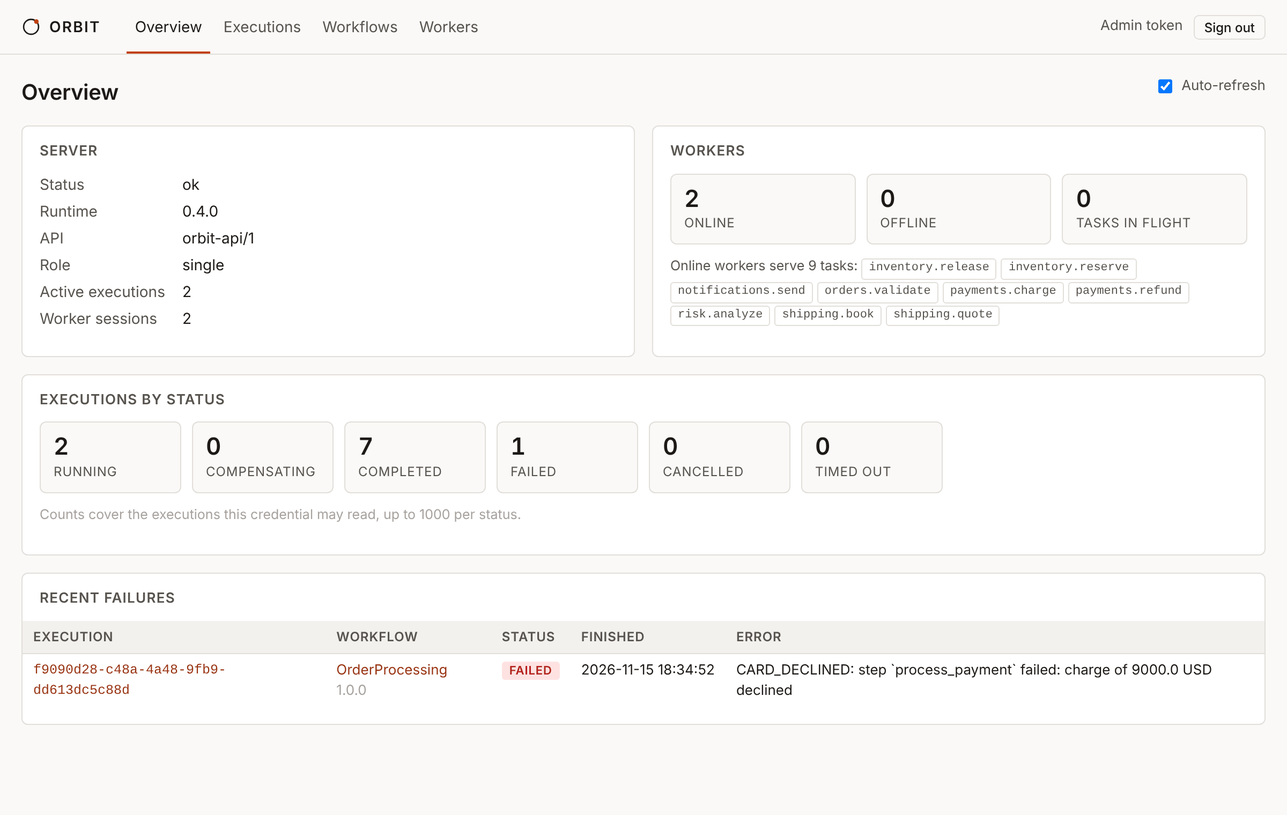
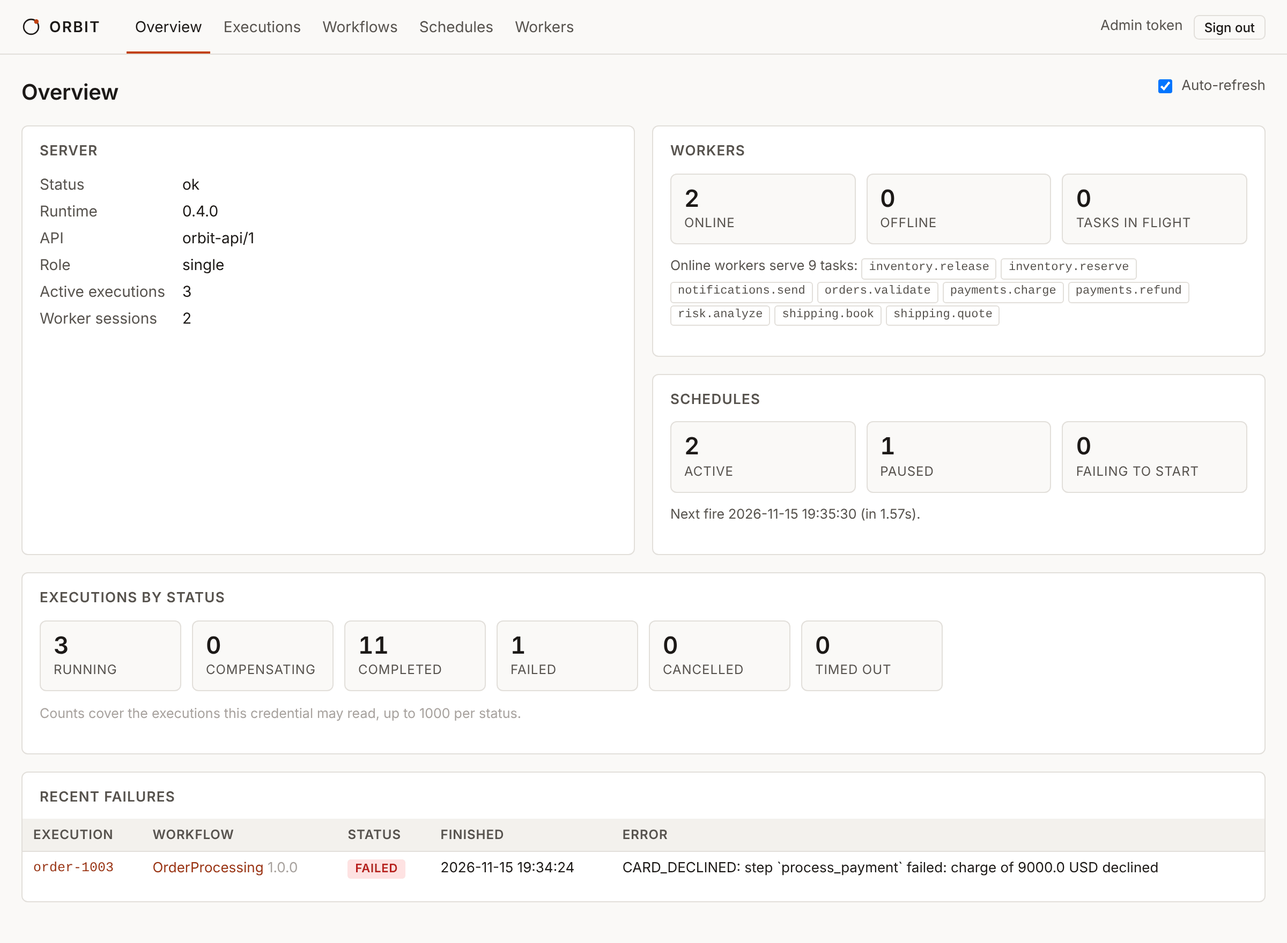
Docs: web UI runs and schedules, continue-as-new in graphs, docs and diffs
web-ui.md describes the run selector and earlier runs, the continue_as_new
node in the graph, the Continue-as-new panel of a workflow page, and the
Schedules view (list, page, actions, form) with what client identities see;
screenshots refreshed against a real server (overview, executions,
execution, workflow graph) and new ones for an earlier run, the schedule
list and a schedule page. The graph, documentation generation and diff
pages show real output for examples/subscription.orbit (Mermaid, DOT, SVG,
sequence, the generated Continue-as-new section and a continue_as_new
diff); checkout-graph.svg is regenerated for the new SVG stylesheet.
Schedules and Continue-as-new link to the UI and tooling pages.

diff --git a/docs/src/runtime/web-ui.md b/docs/src/runtime/web-ui.md
@@ -1,6 +1,6 @@
 # Web UI
 
-`orbit server` serves an operations UI at `/ui/` on the same address as the HTTP API. It shows the server's health, executions, their steps, history and graph, registered workflow definitions and connected workers, and it can run queries, send signals and cancel executions. This page describes each view, how sign-in and permissions work, the security headers, behaviour in a cluster, and the limitations.
+`orbit server` serves an operations UI at `/ui/` on the same address as the HTTP API. It shows the server's health, executions (including the earlier runs of executions that [continued as new](../language/continue-as-new.md)), their steps, history and graph, registered workflow definitions, [schedules](schedules.md) and connected workers. It can run queries, send signals, cancel executions, and create, pause, resume, trigger and delete schedules. This page describes each view, how sign-in and permissions work, the security headers, behaviour in a cluster, and the limitations.
 
 The UI is three static files (HTML, CSS, JavaScript) compiled into the `orbit` binary. It loads nothing from the network other than the server it came from, needs no build step, and works offline. Every value it shows comes from the [HTTP API](../reference/http-api.md), called with the token you sign in with, so it can see and do exactly what that token can through the API.
 
@@ -52,6 +52,7 @@ A client identity sees the same data the API gives it:
 | Executions | Only executions of workflows it may read (`read` action). Opening another execution shows `Not permitted`. |
 | Execution detail | Queries, signals and cancel each work only if the action is granted. A refused action shows `Not permitted` with the API's message, for example ``client `billing` may not cancel executions of `OrderApproval` ``. |
 | Workflows | Only definitions of workflows it may read. |
+| Schedules | Only schedules of workflows it may `schedule` (the `schedule` action); without that action the list is empty, and opening a schedule shows `Not permitted`, for example ``client `billing` may not manage schedules of `OrderProcessing` ``. The executions a schedule started are listed only if it may also `read` them. |
 | Workers | `Not permitted` (`GET /v1/workers` is an administrative endpoint). |
 
 The top bar shows which kind of credential is signed in, for example `Admin token` or `Client billing (restricted)`.
@@ -64,6 +65,7 @@ The top bar shows which kind of credential is signed in, for example `Admin toke
 |---|---|---|
 | Server | Status, runtime and API versions, role (`single`, `leader`, `standby` or `shared`), node id, term and leader in standby mode, active executions, worker sessions. In shared mode, also the executions owned and tasks claimed by this node, and a table of every node with its address, liveness and last heartbeat. | `GET /v1/health` |
 | Workers | Online and offline workers, tasks in flight, and the tasks the online workers serve. | `GET /v1/workers` |
+| Schedules | Active and paused schedules, schedules whose latest start failed (`last_error`), and the next fire time. Each count links to the Schedules view. | `GET /v1/schedules` |
 | Executions by status | One count per status, each linking to the filtered execution list. Counts are capped at 1000 per status (shown as `1000+`). | `GET /v1/executions?status=...&limit=1000` |
 | Recent failures | The eight most recently updated `FAILED` or `TIMED_OUT` executions, with their error code and message. | the same lists, then `GET /v1/executions/{id}` |
 
@@ -77,6 +79,8 @@ The list shows the execution id, workflow and version, status, start time, last 
 - **Search** matches any part of an execution id among the newest 1000 executions that pass the filters. If nothing matches, the text is looked up as a complete id with `GET /v1/executions/{id}`, so an older execution can still be found by its full id.
 - **Previous** and **Next** page through the list.
 
+An execution that continued as new is listed once, with the status of its current run. `CONTINUED_AS_NEW` is never the status of a listed execution (the API reports the current run), so it is not offered as a filter or counted on the overview; it appears on the earlier runs of an execution, below.
+
 The filters and page are kept in the URL (for example `#/executions?status=FAILED&workflow=OrderProcessing`), so a filtered list can be bookmarked or shared.
 
 ## Execution detail
@@ -87,16 +91,33 @@ The detail page of one execution has these sections:
 
 | Section | Contents |
 |---|---|
-| Execution | Status, workflow and version, definition hash, start and finish times, duration, time since the last update, number of history events. For a child execution, a link to its parent and the parent's step. While the execution winds down: the abort reason, compensation outcome and running `on` handler block. |
+| Execution | Status, run number (from run 2 on, with a link to the previous run), workflow and version, definition hash, start and finish times of the current run, duration, time since the last update, number of history events. For an execution started by a schedule, a link to the schedule. For a child execution, a link to its parent and the parent's step. While the execution winds down: the abort reason, compensation outcome and running `on` handler block. |
 | Actions | One **Run** button per declared query, one form per declared signal, and **Cancel execution**. See below. |
 | Input and result | The input, the output once completed, and the error if it failed, as JSON. |
 | Graph | The workflow's steps drawn from the definition, coloured by the status of each step in this execution. See [Graph](#graph). |
 | Steps | One row per unit: every step, every element of a `for` step (`reserve[0]`), every compensation (`compensate:charge`), every outcome handler step (`on_failure:tell_customer`), and every event handler instance and its steps (`on_event:location@4`, `on_event:location@4:tell`). Steps that have not started yet are listed as `not started`. Columns: action (task name, `compute`, `await <signal>`, `sleep`, `workflow <name>`), status, attempt (and the number of deliveries when an attempt was redelivered), the worker that ran it, start and finish times, time taken, and details: the last error, when a sleep or an `await` times out, when a retry is due, and the unit's input, output and idempotency key (expandable). |
 | Child executions | For `workflow` steps that started, the child execution id (`<parent id>.<step>`, or `<parent id>.<step>.<index>` for `for` elements) with a link, its workflow and status. |
 | Signals received | Every signal in arrival order: history sequence number, name, time received, the unit it was delivered to, and its payload. |
-| History | Every history event: sequence number, time since the first event, event type, the unit or signal it concerns, and the absolute time. Click an event to see its full JSON. |
+| History | Every history event of the current run: sequence number, time since the first event, event type, the unit or signal it concerns, and the absolute time. Click an event to see its full JSON. |
 
 While the execution is running, the page reloads it and its history every 2 seconds (untick **Auto-refresh** to stop). Sections are redrawn only when a new event was recorded; the signal forms keep what you typed, and opened history events stay open.
+
+### Runs
+
+An execution that [continued as new](../language/continue-as-new.md) shows its current run number next to its status (`run 4`), and a **Run** selector in the top right lists every run. The page itself always shows the current run, from `GET /v1/executions/{id}`; when the execution moves on to its next run while the page is open, the page switches to it.
+
+Choosing an earlier run opens it at `#/executions/<id>?run=<N>`, so it can be bookmarked. An earlier run is read from its archived history, `GET /v1/executions/{id}/history?run=N`, and shown read-only:
+
+![Run 1 of an Inbox execution: it took one signal, carried two to run 2, and continued as new](../images/web-ui-run.png)
+
+| Section | Contents |
+|---|---|
+| Run | Run `N of M`, the status (`CONTINUED_AS_NEW` for every run but the last), workflow, definition hash, start and end times, duration, number of events, and a link to the run it continued as. |
+| Input and next input | The run's input (from `WorkflowCreated`) and the input of the next run (from `WorkflowContinuedAsNew`). |
+| Graph, Steps | The graph and step table, with step states rebuilt from the run's history. |
+| Signals received, History | The signals the run received (signals no step took were carried into the next run) and its full history. |
+
+There are no actions on an earlier run: queries, signals and cancellation go to the current run.
 
 ### Queries
 
@@ -129,6 +150,7 @@ The graph is drawn from the workflow definition (`GET /v1/workflows/{name}/{vers
 - A step with a `compensate` block has a dashed node under it, connected by a dashed line.
 - Outcome handlers (`on failure`, `on cancel`, `on timeout`) and event handlers (`on event <signal>`) are drawn as separate labelled lanes below the main steps, each with its own dependencies.
 - The second line of each node is the action: task name, `compute`, `await <signal>`, `sleep <duration>`, `workflow <name>`, prefixed with `for <variable>:` for fan-out steps.
+- A workflow with `continue_as_new` has a node with a double border after its final steps (the steps nothing depends on), showing `continue as new` and its condition (`when ...`, or `always`); hovering shows the next run's input. A dashed edge goes from it back to the first steps. On an earlier run the node is coloured `continued as new` (violet); on a current run that completed, it is grey (not taken).
 - On an execution page, nodes are coloured by status: green succeeded, blue running, dispatched or waiting, amber retrying or uncertain, red failed, grey skipped or cancelled, unfilled not started. A `for` step takes the status of its own unit, or else of its elements. An event handler step takes the status of its latest instance, and its name is followed by the number of instances (`tell ×2`). Hovering over a node shows its status and attempt.
 
 Wide graphs scroll horizontally inside their panel.
@@ -137,7 +159,27 @@ Wide graphs scroll horizontally inside their panel.
 
 The list shows every registered definition: name, version, description, number of steps, the tasks it uses (including child workflows as `workflow:<name>`), the start of the definition hash, and a link to its executions.
 
-A definition's page shows its version, description, definition hash, IR version, workflow timeout and limits, links to its other registered versions, the input and output fields (type, default, or `required`), signals with their payload types, queries with their result types, the graph, a table of all steps (block, action, dependencies, whether it has a `when` condition, retry policy, timeout, compensation task), and the task contracts it was compiled against (name, version, input and output types, compensation, built-in or child workflow).
+A definition's page shows its version, description, definition hash, IR version, workflow timeout and limits, links to its other registered versions, the input and output fields (type, default, or `required`), signals with their payload types, queries with their result types, the graph, a table of all steps (block, action, dependencies, whether it has a `when` condition, retry policy, timeout, compensation task), and the task contracts it was compiled against (name, version, input and output types, compensation, built-in or child workflow). For a workflow with `continue_as_new`, a **Continue-as-new** panel shows the condition and, field by field, the next run's input (fields left out take their defaults).
+
+## Schedules
+
+![Three schedules: a cron schedule in Europe/Berlin that was triggered once, an interval schedule, and a paused one](../images/web-ui-schedules.png)
+
+The list shows every [schedule](schedules.md) the credential may manage (`GET /v1/schedules`): its id, workflow and version (`latest` when the version is not pinned), timing (`cron "<expression>" <time zone>` or `every <interval>`), state, the next fire time (including jitter), the latest occurrence handled, the latest execution it started (with a link), how many executions it started and how many occurrences it skipped, and the error of the latest failed start. The state is `active`, `paused`, or `ended` (past `end_at`, no next occurrence). The list refreshes every 5 seconds.
+
+A schedule's page has its settings (workflow, timing, overlap and catch-up policies, start and end, jitter, description), its state (next fire time and the next five occurrences, last fire, last execution, counts, last error), its input, and the executions it started: the executions of its workflow whose id starts with `<schedule id>:`, newest first. The page refreshes every 3 seconds.
+
+![A 15-second interval schedule with the executions it started](../images/web-ui-schedule.png)
+
+| Action | API call |
+|---|---|
+| **Pause**, **Resume** | `POST /v1/schedules/{id}/pause` and `/resume` |
+| **Trigger now** | `POST /v1/schedules/{id}/trigger`. The new execution's id is shown with a link. When the overlap policy skips the start, the page says so. |
+| **Delete schedule…** | Opens a confirmation; **Confirm delete** calls `DELETE /v1/schedules/{id}`. Executions the schedule started are not affected. |
+
+**New schedule** on the list opens a form with the fields of `POST /v1/schedules`: id, workflow, version, cron expression or interval, time zone, overlap and catch-up policies, input (JSON), description, and whether to create it paused. The form checks only that the input is JSON; everything else is validated by the server, and its error is shown under the form, for example ``INVALID_SCHEDULE (400). cron `0 25 * * *`: `25` is out of range for the hour field (0-23)``. Changing an existing schedule is not possible in the UI; use `orbit schedule update` or `PATCH /v1/schedules/{id}`.
+
+An execution started by a schedule links back to it from its header and its Execution panel.
 
 ## Workers
 
@@ -174,16 +216,17 @@ date: Sun, 15 Nov 2026 18:35:41 GMT
 
 The UI is served by every server, whatever its role, because it is answered before the cluster logic.
 
-**Standby mode** ([Running several servers](cluster.md)): on the leader, everything works. On a standby, the read views work, because a standby answers `GET` requests from the database; the Server panel shows `standby`, its term and the current leader. Running a query also works. Sending a signal or cancelling from a standby is refused with `503 NOT_LEADER`, and the UI shows the server's message, which names the leader and its address; open the leader's UI to act, or reach the UI through a load balancer that sends traffic to the ready server (`/v1/ready`), as for the API. Worker sessions are held by the leader, so on a standby the Workers view lists the registered workers as offline, and the active execution and worker session counts in the Server panel are 0; check those on the leader.
+**Standby mode** ([Running several servers](cluster.md)): on the leader, everything works. On a standby, the read views work, because a standby answers `GET` requests from the database; the Server panel shows `standby`, its term and the current leader. Running a query also works. Sending a signal, cancelling, or creating, pausing, resuming, triggering or deleting a schedule from a standby is refused with `503 NOT_LEADER`, and the UI shows the server's message, which names the leader and its address; open the leader's UI to act, or reach the UI through a load balancer that sends traffic to the ready server (`/v1/ready`), as for the API. Worker sessions are held by the leader, so on a standby the Workers view lists the registered workers as offline, and the active execution and worker session counts in the Server panel are 0; check those on the leader.
 
 **Shared mode**: every server is active. Signals and cancellations sent from any node are forwarded to the node that owns the execution. The Server panel shows `shared`, the node's own executions and claimed tasks, and every node of the cluster with its liveness.
 
 ## Limitations
 
 - The API returns at most 1000 executions per request and has no offset parameter. The list therefore pages through the newest 1000 executions that match the filters, the status counts stop at 1000, and the id search covers the newest 1000 (an older execution can be opened by its complete id).
-- The UI polls; it does not receive pushed updates. Intervals: overview 5 s, execution list 3 s, execution detail 2 s while running, workers 5 s.
+- The UI polls; it does not receive pushed updates. Intervals: overview 5 s, execution list 3 s, execution detail 2 s while running, schedule list 5 s, schedule page 3 s, workers 5 s.
 - The history is shown in full; executions with very many events make the detail page slower.
-- The UI cannot start executions, register workflows or change server settings. Use the [CLI](../reference/cli.md) or the API.
+- The step states of an earlier run are rebuilt in the browser from its history; the API has no state endpoint for earlier runs.
+- The UI cannot start executions, change a schedule, register workflows or change server settings. Use the [CLI](../reference/cli.md) or the API.
 - Times are shown in the browser's time zone.
 - The UI is served at `/ui/` of the server's own address. Serving it under a path prefix of a reverse proxy has not been tested.
 - It is tested with Chromium only (Playwright, in `tests/e2e/test_e2e.py`, class `WebUI`). It needs a current browser (it uses ES2021 JavaScript).

diff --git a/docs/src/tooling/graph.md b/docs/src/tooling/graph.md
@@ -44,6 +44,7 @@ The same definition always renders to the same text: steps appear in the IR's ex
 | Signal feeding an `await` step | flag `signal__<name>>"signal <name>"]`, dotted edge to the step | `shape=cds`, dashed edge | not drawn (the step label names the signal) |
 | `on failure`, `on cancel`, `on timeout` | `subgraph on_<kind>["on <kind>"]` | dashed cluster `cluster_on_<kind>` | labelled panel below the main graph |
 | `on event <signal>` | `subgraph on_event_<signal>["on event <signal>"]` | dashed cluster | labelled panel |
+| [`continue_as_new`](../language/continue-as-new.md) | subroutine `continue_as_new[["continue as new..."]]` after the final steps, and `continue_as_new -. next run .-> <first step>` | `peripheries=2` box, dashed `next run` edge with `constraint=false` | box with a double accent border below the final steps, dashed `next run` edge up the right side into the first steps |
 
 Node ids of handler and event steps are prefixed with the subgraph id (`on_failure__tell_customer`), so a handler step may share a name with a main step.
 
@@ -62,6 +63,81 @@ Each step's label lists, one per line:
 Conditions are printed back as ORBIT expressions from the IR. Durations inside expressions appear as milliseconds, because the IR does not keep the unit. In Mermaid labels, `<`, `>`, `"` and `#` are written as the entities `#lt;`, `#gt;`, `#quot;` and `#35;`, which Mermaid renders as the characters.
 
 The header comment also shows a workflow `timeout` and a `limits` block when present (`%% workflow timeout 5m`, `%% limits max_history_events 5000`).
+
+## Continue-as-new
+
+A workflow with [`continue_as_new`](../language/continue-as-new.md) gets one more node. It follows the steps nothing depends on, because the condition is evaluated when every step has finished, and a dashed `next run` edge goes from it back to the steps without dependencies, where the next run starts. Its label has three lines: `continue as new`, the condition (`when ...`, or `always` without `when`), and the fields the next run's input sets (`next input { ... }`, or the expression when the input is not an object literal). The node id `continue_as_new` is a keyword, so it never clashes with a step.
+
+```console
+$ orbit graph examples/subscription.orbit
+```
+
+```text
+flowchart TD
+    %% Subscription@1.0.0
+    %% sha256:1d7a374edd1e400b4fb61a0d851ea74a99b4620006f6be5f06ce7a9421d6f8f1
+    classDef compensation stroke-dasharray: 4 3
+    classDef signal stroke-dasharray: 2 2
+    charge["charge<br/><small>payments.charge@1.0.0</small><br/><small>retry 5 attempts, exponential 1m..1h</small><br/><small>idempotency key</small>"]
+    receipt["receipt<br/><small>notifications.send@1.0.0</small>"]
+    charge --> receipt
+    next_period["next_period<br/><small>sleep 30d</small>"]
+    receipt --> next_period
+    continue_as_new[["continue as new<br/><small>when input.period #lt; input.periods</small><br/><small>next input { customer_id, amount, periods, period, charged }</small>"]]
+    next_period --> continue_as_new
+    continue_as_new -. next run .-> charge
+```
+
+```console
+$ orbit graph examples/subscription.orbit --format dot
+```
+
+```text
+digraph "Subscription" {
+  // Subscription@1.0.0
+  // sha256:1d7a374edd1e400b4fb61a0d851ea74a99b4620006f6be5f06ce7a9421d6f8f1
+  rankdir=TB;
+  node [shape=box, style=rounded, fontname="Helvetica", fontsize=11];
+  edge [fontname="Helvetica", fontsize=10];
+  "charge" [label="charge\npayments.charge@1.0.0\nretry 5 attempts, exponential 1m..1h\nidempotency key"];
+  "receipt" [label="receipt\nnotifications.send@1.0.0"];
+  "charge" -> "receipt";
+  "next_period" [label="next_period\nsleep 30d"];
+  "receipt" -> "next_period";
+  "continue_as_new" [label="continue as new\nwhen input.period < input.periods\nnext input { customer_id, amount, periods, period, charged }", peripheries=2];
+  "next_period" -> "continue_as_new";
+  "continue_as_new" -> "charge" [style=dashed, constraint=false, label="next run"];
+}
+```
+
+`orbit graph examples/subscription.orbit --format svg`:
+
+![Step graph of examples/subscription.orbit: charge, receipt and next_period, then continue as new with a dashed next run edge back to charge](subscription-graph.svg)
+
+In a sequence diagram (`--sequence`), the workflow sends itself a `continue_as_new` message after the main steps, inside `opt when <condition>` when there is a condition:
+
+```console
+$ orbit graph examples/subscription.orbit --sequence
+```
+
+```text
+sequenceDiagram
+    %% Subscription@1.0.0
+    %% sha256:1d7a374edd1e400b4fb61a0d851ea74a99b4620006f6be5f06ce7a9421d6f8f1
+    participant W as Subscription
+    participant payments
+    participant notifications
+    W->>+payments: charge: payments.charge@1.0.0
+    payments-->>-W: PaymentResult
+    W->>+notifications: receipt: notifications.send@1.0.0
+    notifications-->>-W: { delivered }
+    Note over W: next_period: sleep 30d
+    opt when input.period < input.periods
+        W->>W: continue_as_new: next run with { customer_id, amount, periods, period, charged }
+    end
+```
+
+The [web UI](../runtime/web-ui.md#graph) draws the same node, coloured by whether a run continued.
 
 ## Mermaid
 
@@ -193,6 +269,7 @@ orbit graph workflows/order.orbit --format dot | dot -Tpng -o order.png
 - each step is placed one layer below its deepest dependency (longest path from the steps without dependencies), and steps in a layer keep the execution order;
 - a compensation is placed to the right of the step it undoes, on the same layer;
 - each outcome handler and event block is laid out the same way in its own labelled panel, below the main graph;
+- a `continue_as_new` node is placed one layer below the final steps; its dashed `next run` edges run up the right side of the graph and into the top of the first steps;
 - dependencies are curves from the bottom of a step to the top of its dependent. An edge that skips a layer can pass behind a node of the layer in between; use Graphviz for large graphs where that matters.
 
 The SVG uses a monospace font, embeds its own stylesheet (colours follow `prefers-color-scheme`) and has a transparent background. `orbit docs --format html` embeds the same rendering in each workflow page.
@@ -238,6 +315,7 @@ sequenceDiagram
 | `when` | an `opt when <condition>` block |
 | `for` | a `loop for each <variable>` block |
 | Compensations | one `opt compensation ...` block at the end, in reverse execution order |
+| `continue_as_new` | a message `W->>W: continue_as_new: next run with { ... }` after the main steps, in an `opt when <condition>` block when it has one |
 | Handlers and event blocks | one `opt on <kind>` or `opt on event <signal>` block each |
 
 Steps appear in execution order. Steps that can run concurrently are drawn one after the other; the flowchart shows which steps are independent.

diff --git a/docs/src/tooling/diff.md b/docs/src/tooling/diff.md
@@ -1,6 +1,6 @@
 # Process diffs
 
-`orbit diff` compares two versions of a set of workflows and reports what the process does differently: steps added, removed or renamed, changed actions and contracts, dependencies, conditions, retries, timeouts, compensations, outcome and event handlers, signals, queries, input and output types, and limits. It ends with the verdict of [`orbit compat`](compat.md), so one report answers both "what changed?" and "is it safe to deploy, and which version bump does it need?". The Markdown format is meant to be pasted into a pull request.
+`orbit diff` compares two versions of a set of workflows and reports what the process does differently: steps added, removed or renamed, changed actions and contracts, dependencies, conditions, retries, timeouts, compensations, outcome and event handlers, signals, queries, input and output types, limits, and `continue_as_new`. It ends with the verdict of [`orbit compat`](compat.md), so one report answers both "what changed?" and "is it safe to deploy, and which version bump does it need?". The Markdown format is meant to be pasted into a pull request.
 
 A text diff of the source shows edits; `orbit diff` compares the compiled definitions, so it ignores formatting and comments, sees dependencies implied by data references, and reports a step that was only renamed as a rename.
 
@@ -118,6 +118,7 @@ Workflows are matched by name. A workflow only in the new version is reported as
 | `handler` | `on failure`, `on cancel`, `on timeout` blocks added or removed. Steps of a block present in both versions are compared like main steps; their subject is `on <kind>: <step>`. |
 | `event` | `on event <signal>` blocks, the same way |
 | `limits` | The `limits` block |
+| `continue_as_new` | [`continue_as_new`](../language/continue-as-new.md) added or removed (subject `continue_as_new`, value `when <condition> with <input>`, or `always with <input>`), or a change of its `condition` (`when ...` or `always`) or of its next `input` |
 | `contract` | For a child workflow, a different child definition. Declared task contracts (also when no workflow uses them, and only without `--workflow`): added or removed contracts, version changes, `compensated_by` changes, and input and output field changes (`mail.send input.cc`) |
 
 Expressions are compared as ORBIT source printed from the IR, so a change in formatting or comments is not a change.
@@ -127,6 +128,21 @@ Expressions are compared as ORBIT source printed from the IR, so a change in for
 Steps are matched by scope (main graph, `on <kind>`, `on event <signal>`) and name. A step that exists only in the old version and a step that exists only in the new version, in the same scope, are reported as one rename when they run the same thing and are the only unmatched pair that does: the same task (any contract version), the same child workflow, an `await` of the same signal, or both `sleep` or both `compute`. The renamed step is then compared field by field, and dependencies on it are compared under its new name, so other steps that depend on it show no change. Expressions that mention the old name (for example a handler that reads `!is_null(charge)`) do change, and are reported.
 
 If two removed steps call the same task, neither is treated as a rename; they are reported as removed and added.
+
+### Continue-as-new
+
+The second version of [`examples/subscription.orbit`](https://github.com/AjmalX0/Orbit/blob/main/examples/subscription.orbit) below continues only once the receipt was delivered, and raises the amount by 2% each period:
+
+```console
+$ orbit diff subscription.orbit v2/subscription.orbit
+workflow Subscription 1.0.0 → 1.1.0
+  ~ workflow: version: 1.0.0 → 1.1.0
+  ~ continue_as_new: condition: when input.period < input.periods → when input.period < input.periods && receipt.delivered
+  ~ continue_as_new: input: { customer_id: input.customer_id, amount: input.amount, periods: input.periods, period: input.period + 1, charged: input.charged + input.amount } → { customer_id: input.customer_id, amount: input.amount * 1.02, periods: input.periods, period: input.period + 1, charged: input.charged + input.amount }
+summary: workflows: 1 changed; 3 change(s): 3 changed; compatibility: compatible
+```
+
+The condition and the input are compared separately. Adding or removing `continue_as_new` is one change with the whole member as its value.
 
 ## JSON
 

diff --git a/docs/src/tooling/docs-generation.md b/docs/src/tooling/docs-generation.md
@@ -40,6 +40,7 @@ A workflow page contains, in order:
 | Signals | For each signal: doc comment, the steps that await it (or the `on event` block that handles it), and its fields. |
 | Queries | Name, result type, expression and doc comment. |
 | Steps | One row per step in execution order: action (task and contract version with a link to the contract, `using` language, child workflow, `sleep`, `await`, or the `compute` expression), fan-out (`for each ... in ...`, `max_parallel`), direct dependencies (explicit and implied), `when` condition, retry policy, timeouts and idempotency key, compensation, doc comment. |
+| Continue-as-new | For a workflow with [`continue_as_new`](../language/continue-as-new.md): when it applies (its condition, or always), and a table of the next run's input, field by field, including the fields left to their defaults. See [below](#continue-as-new). |
 | Outcome handlers | One steps table per `on failure`, `on cancel`, `on timeout` block. |
 | Event handlers | One steps table per `on event <signal>` block. |
 | Diagram | Markdown: the Mermaid flowchart from [`orbit graph`](graph.md) in a `mermaid` code block. HTML: the SVG rendering from `orbit graph --format svg`, inline, with the Mermaid source in a collapsed section. |
@@ -51,6 +52,33 @@ Expressions (conditions, step inputs, queries, `return`) are printed back as ORB
 ### HTML
 
 Each HTML page is a single file with its stylesheet and diagram inline: no scripts, no fonts, no images or stylesheets loaded from elsewhere, so a page can be attached to a ticket or archived as it is. Pages link to each other with relative links (`contracts.html#task-payments-charge`, `index.html`). Typography uses the system font stack; colours follow the light and dark tokens of the ORBIT website and switch with `prefers-color-scheme`.
+
+### Continue-as-new
+
+For [`examples/subscription.orbit`](https://github.com/AjmalX0/Orbit/blob/main/examples/subscription.orbit), the section after the steps reads:
+
+```console
+$ orbit docs examples/subscription.orbit --output reference
+wrote reference/index.md
+wrote reference/Subscription.md
+wrote reference/contracts.md
+```
+
+```markdown
+## Continue-as-new
+
+When every step has finished and `input.period < input.periods` is true, the run ends with status `CONTINUED_AS_NEW` and the execution continues as a new run, under the same id, with the input below and an empty history. Otherwise the run completes with `return`.
+
+| Next run's input | Value |
+|---|---|
+| `customer_id` | `input.customer_id` |
+| `amount` | `input.amount` |
+| `periods` | `input.periods` |
+| `period` | `input.period + 1` |
+| `charged` | `input.charged + input.amount` |
+```
+
+Fields of the workflow input that the `with` object leaves out are listed with `default <value>` (or `null` for an optional field without a default). Without `when`, the text says that the execution always continues and never completes by itself. When the next input is not an object literal (`continue_as_new with input`), it is shown as an `orbit` code block. The diagram shows the `continue_as_new` node and its `next run` edge ([Workflow graphs](graph.md#continue-as-new)).
 
 ## Doc comments
 

diff --git a/docs/src/language/continue-as-new.md b/docs/src/language/continue-as-new.md
@@ -206,7 +206,7 @@ COMPLETED inbox-1  Inbox@1.0.0
 | Question | Answer |
 |---|---|
 | What does `GET /v1/executions/{id}` (and `orbit status`, `orbit inspect`) return? | The latest run's state. It has `run` (absent for run 1); `input`, `units`, `signals` and `created_at_ms` are the run's. |
-| How do I read an earlier run? | `GET /v1/executions/{id}/history?run=N`, `orbit logs <id> --run N`, `orbit replay <id> --run N`. Each run's `seq` starts at 1. |
+| How do I read an earlier run? | `GET /v1/executions/{id}/history?run=N`, `orbit logs <id> --run N`, `orbit replay <id> --run N`, or the run selector of the [web UI](../runtime/web-ui.md#runs). Each run's `seq` starts at 1. |
 | What does `wait` wait for? | The final run: it returns when the latest run ends with a status other than `CONTINUED_AS_NEW`. |
 | Where do signals go? | To the current run. Signals the finished run received but no step took are carried into the next run, in arrival order. A signal sent during the switch is recorded either before it (and carried over if nobody took it) or after it. |
 | Queries? | They evaluate against the current run, and can read its `input`. |
@@ -297,5 +297,7 @@ test "three periods are three runs" {
 - [Signals and queries](signals.md)
 - [Running the server: resource limits](../runtime/server.md#resource-limits)
 - [Schedules](../runtime/schedules.md)
+- [Web UI: runs](../runtime/web-ui.md#runs)
+- [Workflow graphs](../tooling/graph.md#continue-as-new), [documentation](../tooling/docs-generation.md#continue-as-new) and [process diffs](../tooling/diff.md) show `continue_as_new`
 - [HTTP API: history](../reference/http-api.md#get-v1executionsidhistory)
 - [Testing workflows](../tooling/testing.md)

diff --git a/docs/src/runtime/schedules.md b/docs/src/runtime/schedules.md
@@ -232,6 +232,8 @@ $ orbit schedule trigger nightly-orders
 not started: the previous execution of nightly-orders is still running (overlap: skip)
 ```
 
+The [web UI](web-ui.md#schedules) lists schedules and can create, pause, resume, trigger and delete them.
+
 A change recomputes the next occurrence from now and keeps the counters and
 the last execution. Deleting a schedule does not affect the executions it
 started.
@@ -325,3 +327,4 @@ and start from zero when it starts. See [Observability](observability.md#metric-
 - [Running several servers](cluster.md)
 - [Storage: schedule table](storage.md#schedule-table)
 - [Continue-as-new](../language/continue-as-new.md)
+- [Web UI: schedules](web-ui.md#schedules)
